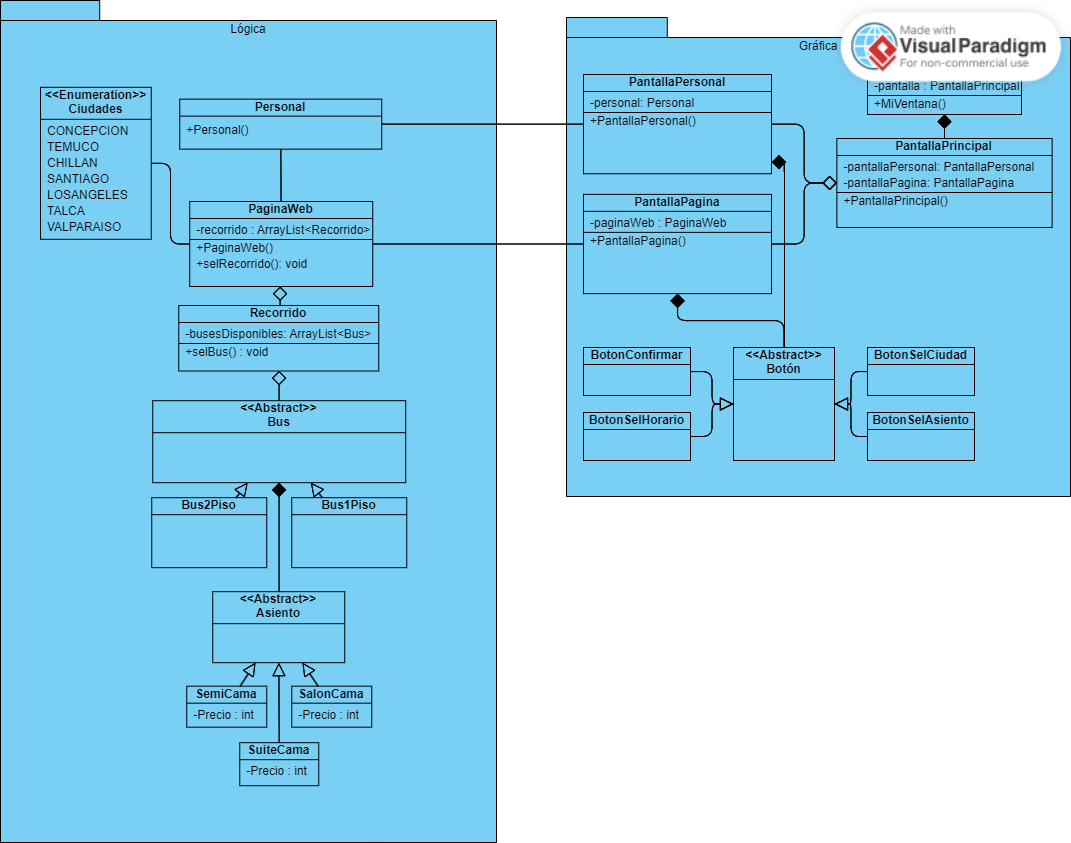
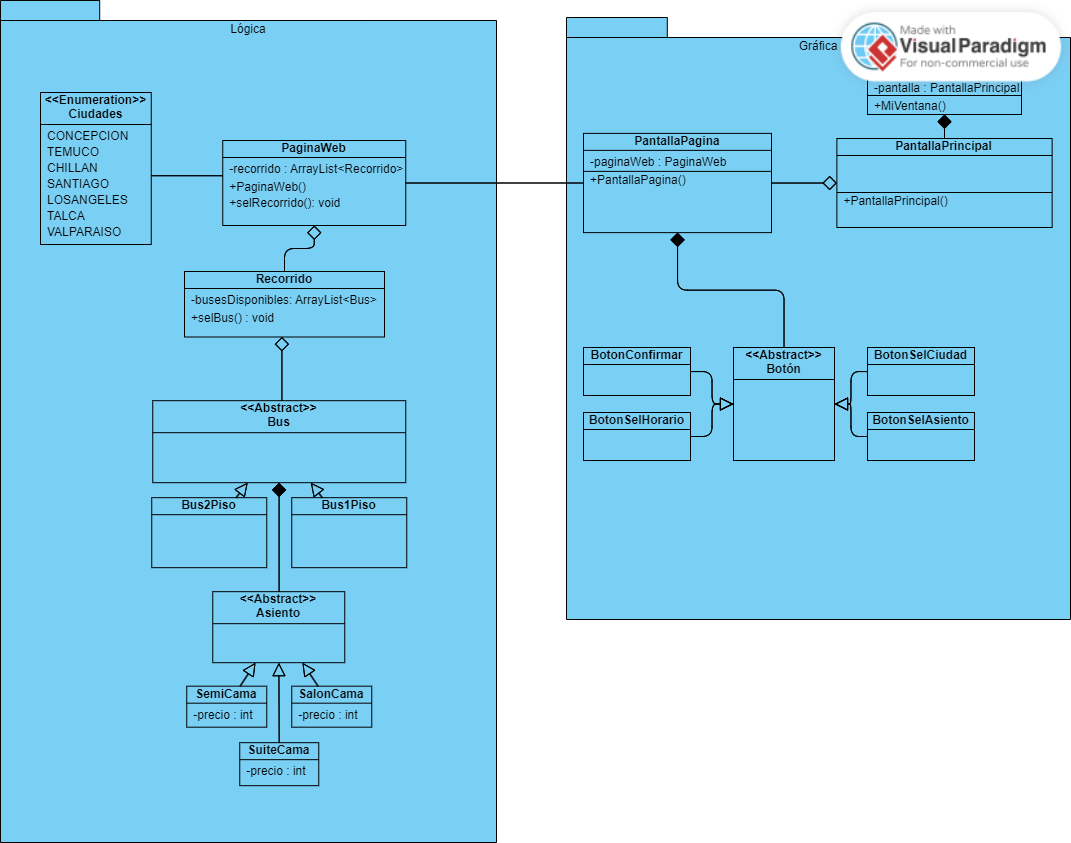
Eliminado personal en codigo y uml+añadido boton

diff --git a/Proyecto-Final/src/main/java/org/Grafica/PantallaPrincipal.java b/Proyecto-Final/src/main/java/org/Grafica/PantallaPrincipal.java
@@ -6,7 +6,6 @@ import java.awt.*;
  * Panel principal que maneja las otras dos pantallas
  */
 public class PantallaPrincipal extends JPanel {
-    private PantallaPersonal pantallaPersonal;
     private PantallaPaginaWeb pantallaPaginaWeb;
     /**
      * Constructor del panel
@@ -16,12 +15,8 @@ public class PantallaPrincipal extends JPanel {
         super();
         setLayout(null);
 
-        pantallaPersonal=new PantallaPersonal();
-        pantallaPersonal.setBounds(550,100,1000,600);
-        this.add(pantallaPersonal);
-
         pantallaPaginaWeb=new PantallaPaginaWeb();
-        pantallaPaginaWeb.setBounds(0,0,500,750);
+        pantallaPaginaWeb.setBounds(0,10,1520,770);
         this.add(pantallaPaginaWeb);
 
         setBackground(Color.darkGray);

diff --git a/Proyecto-Final/src/main/java/org/Grafica/Botones/Boton.java b/Proyecto-Final/src/main/java/org/Grafica/Botones/Boton.java
@@ -1,0 +1,15 @@
+package org.Grafica.Botones;
+
+import org.Grafica.PantallaPaginaWeb;
+
+import javax.swing.*;
+
+public abstract class Boton extends JButton {
+    public Boton(PantallaPaginaWeb p,String nombre,int x,int y,int ancho,int alto){
+        super(nombre);
+        setBounds(x,y,ancho,alto);
+        p.setLayout(null);
+        p.add(this);
+    }
+}
+

diff --git a/Proyecto-Final/src/main/java/org/Grafica/MiVentana.java b/Proyecto-Final/src/main/java/org/Grafica/MiVentana.java
@@ -14,7 +14,7 @@ public class MiVentana extends JFrame {
     public MiVentana() {
         super();
         pantalla= new PantallaPrincipal();
-        this.setTitle("Expendedor");
+        this.setTitle("BusesDDR");
         setSize(1600, 900);
         add(pantalla);
         setDefaultCloseOperation(JFrame.EXIT_ON_CLOSE);
